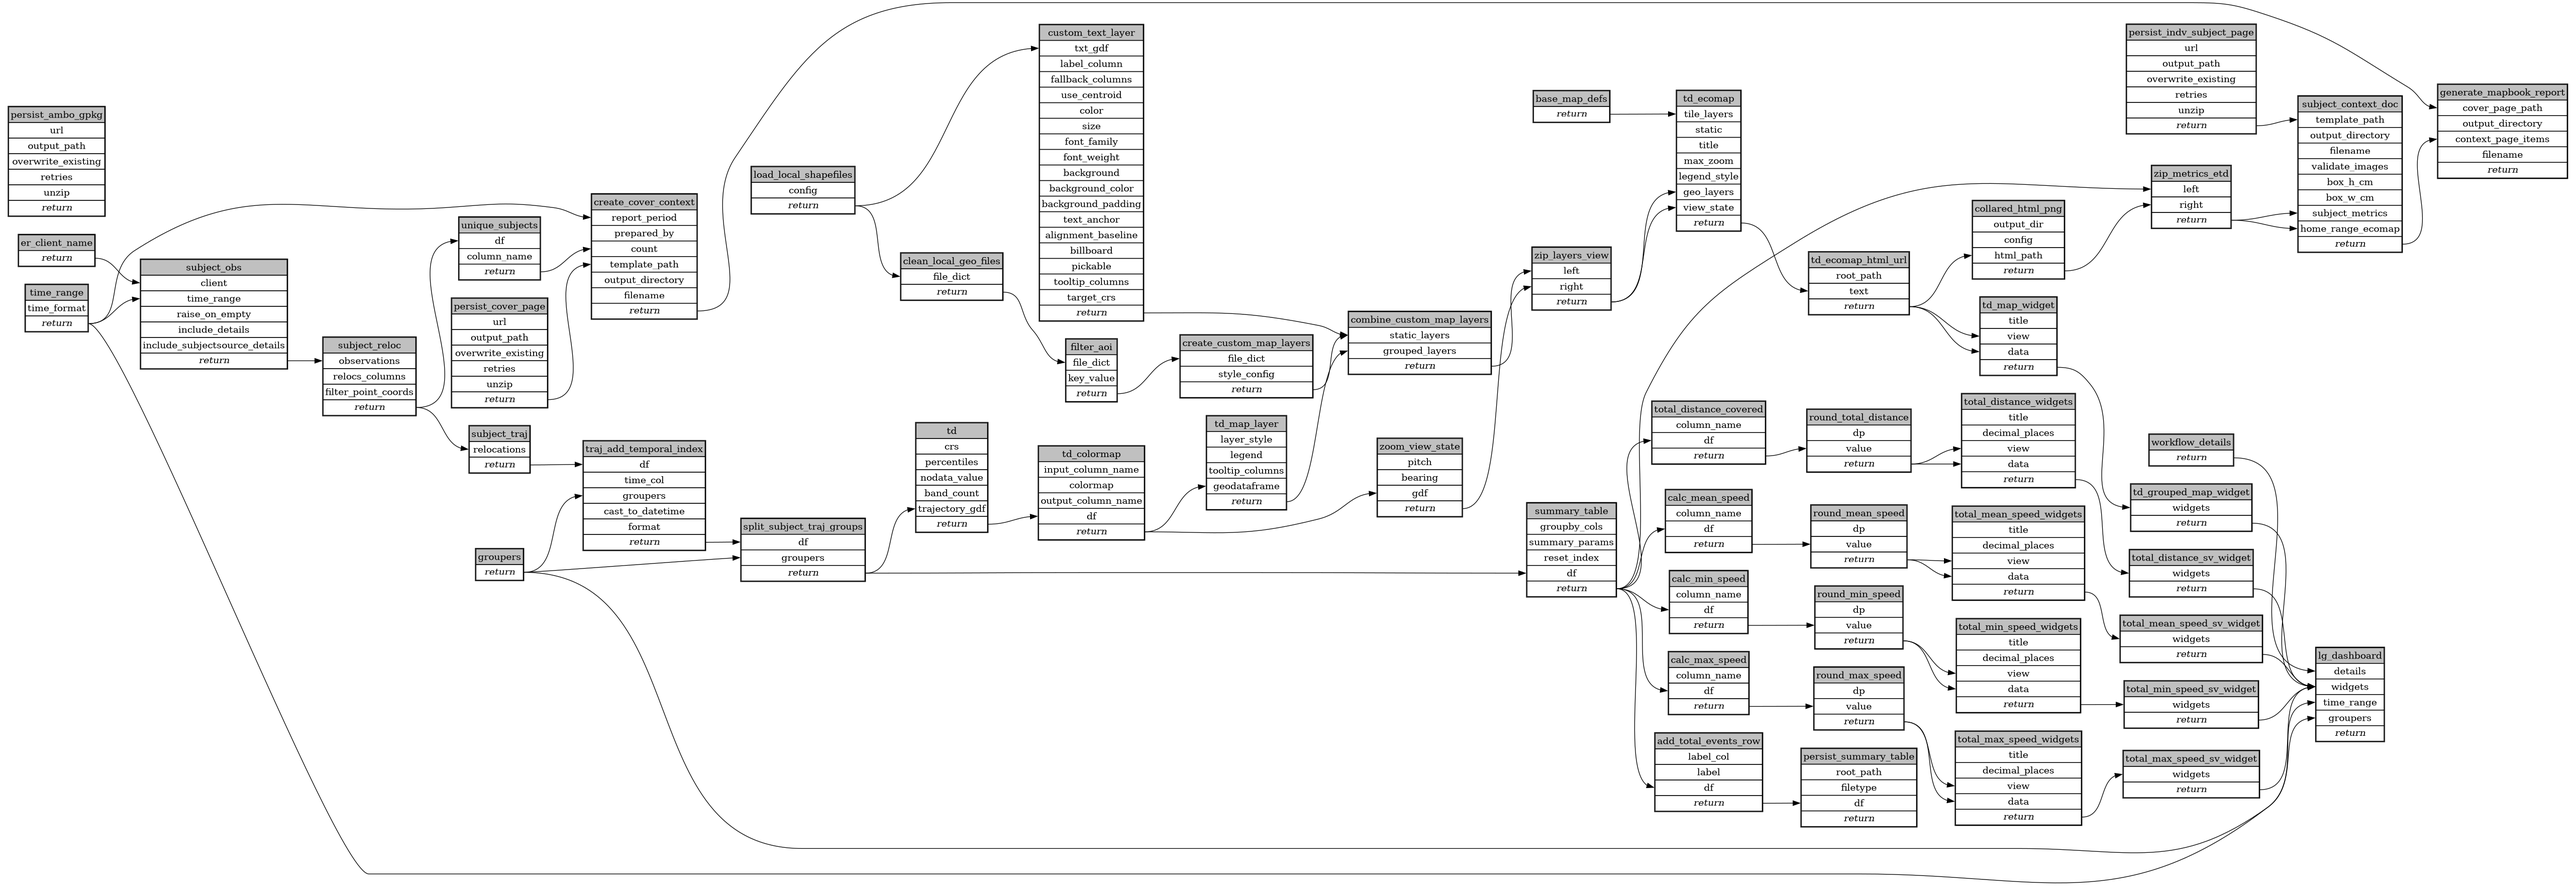
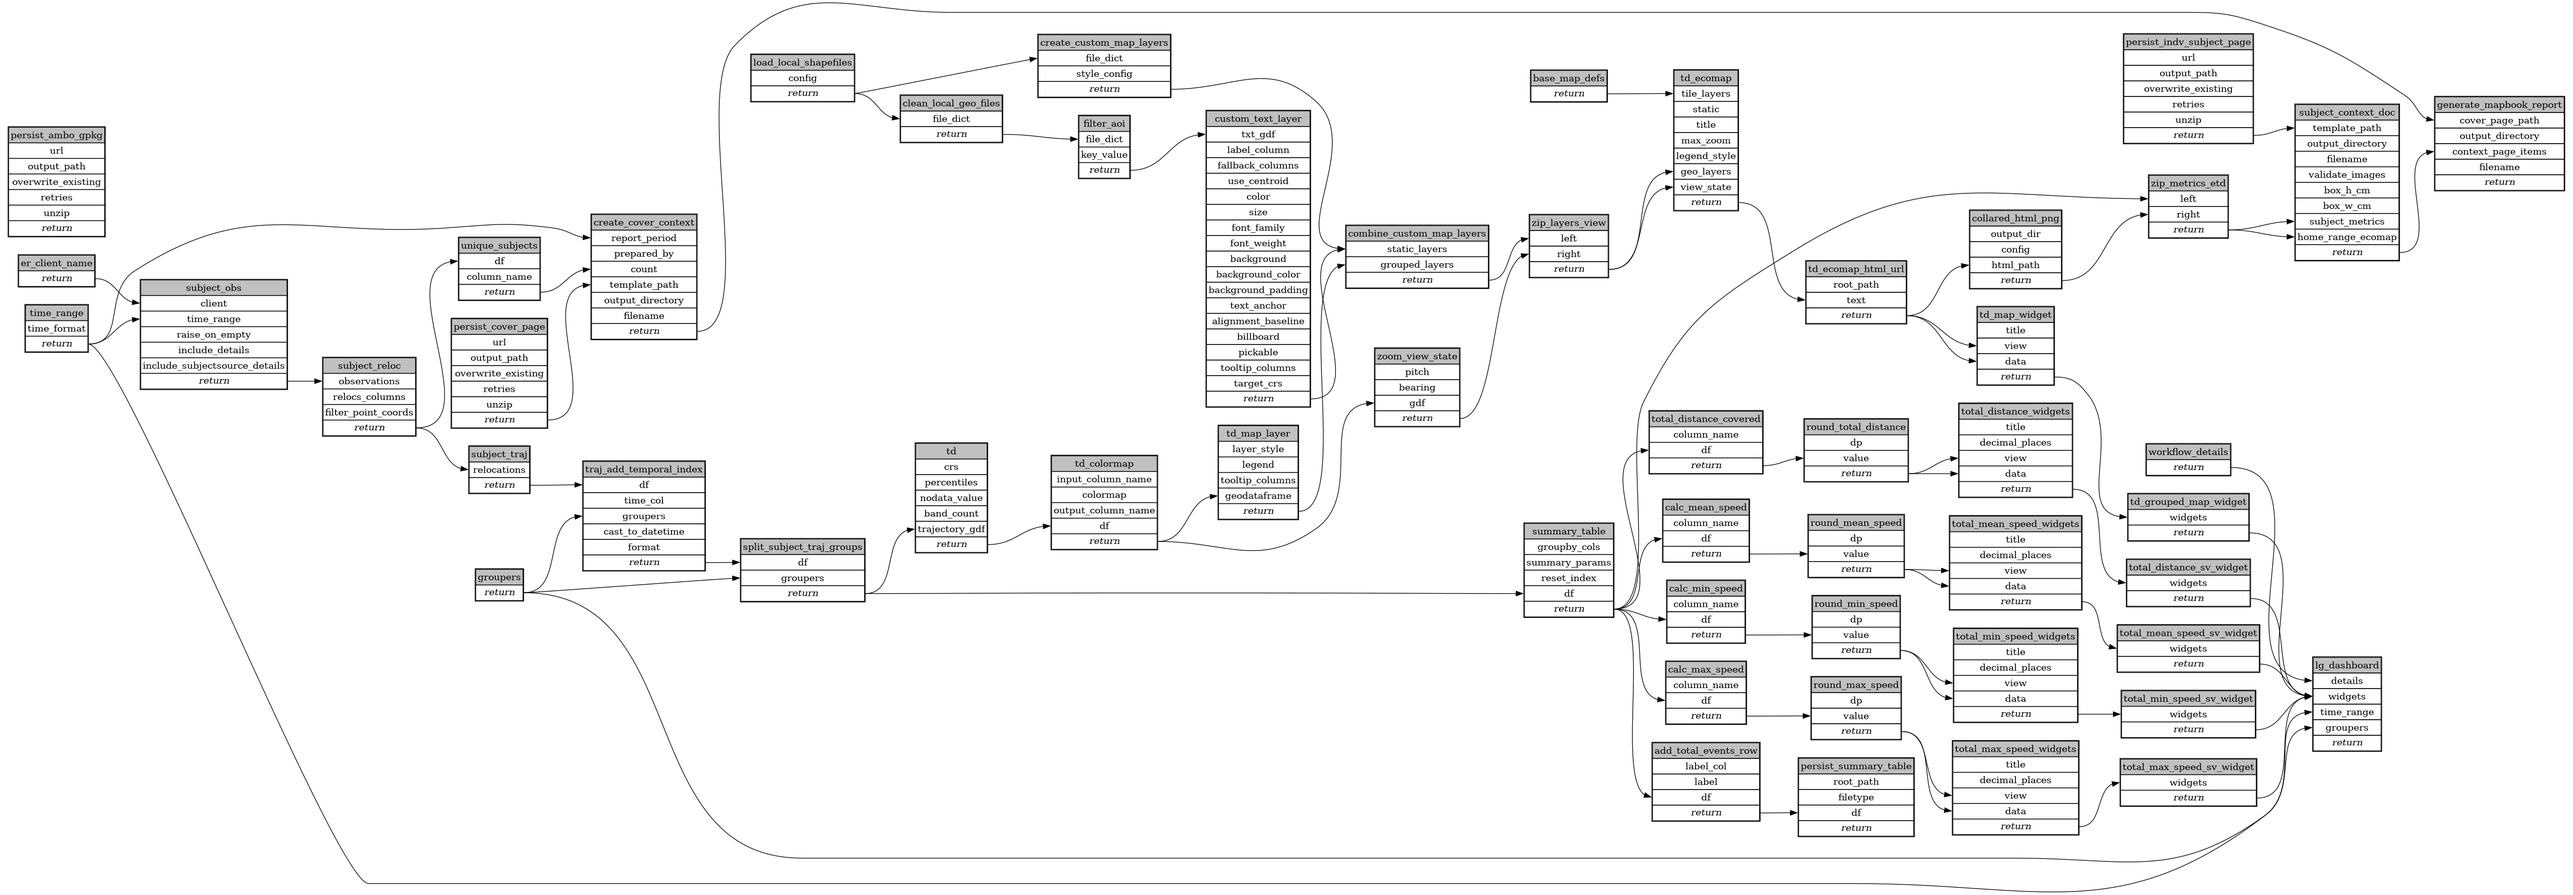
fix key area of interest task func block

Changed region(s): [[0.0, 0.0, 0.6871, 0.6859], [0.5934, 0.0, 0.9994, 0.9666]]

diff --git a/workflows/collared_lions_report/ecoscope-workflows-collared-lions-report-workflow/ecoscope_workflows_collared_lions_report_workflow/dags/run_async.py b/workflows/collared_lions_report/ecoscope-workflows-collared-lions-report-workflow/ecoscope_workflows_collared_lions_report_workflow/dags/run_async.py
@@ -74,9 +74,9 @@ def main(params: Params):
         "persist_indv_subject_page": [],
         "load_local_shapefiles": [],
         "clean_local_geo_files": ["load_local_shapefiles"],
+        "create_custom_map_layers": ["load_local_shapefiles"],
         "filter_aoi": ["clean_local_geo_files"],
-        "create_custom_map_layers": ["filter_aoi"],
-        "custom_text_layer": ["load_local_shapefiles"],
+        "custom_text_layer": ["filter_aoi"],
         "subject_obs": ["er_client_name", "time_range"],
         "subject_reloc": ["subject_obs"],
         "subject_traj": ["subject_reloc"],
@@ -256,19 +256,6 @@ def main(params: Params):
             | (params_dict.get("clean_local_geo_files") or {}),
             method="call",
         ),
-        "filter_aoi": Node(
-            async_task=select_koi.validate()
-            .set_task_instance_id("filter_aoi")
-            .handle_errors()
-            .with_tracing()
-            .set_executor("lithops"),
-            partial={
-                "file_dict": DependsOn("clean_local_geo_files"),
-                "key_value": "amboseli_group_ranch_boundaries",
-            }
-            | (params_dict.get("filter_aoi") or {}),
-            method="call",
-        ),
         "create_custom_map_layers": Node(
             async_task=create_map_layers.validate()
             .set_task_instance_id("create_custom_map_layers")
@@ -276,7 +263,7 @@ def main(params: Params):
             .with_tracing()
             .set_executor("lithops"),
             partial={
-                "file_dict": DependsOn("filter_aoi"),
+                "file_dict": DependsOn("load_local_shapefiles"),
                 "style_config": {
                     "styles": {
                         "amboseli_group_ranch_boundaries": {
@@ -297,6 +284,19 @@ def main(params: Params):
             | (params_dict.get("create_custom_map_layers") or {}),
             method="call",
         ),
+        "filter_aoi": Node(
+            async_task=select_koi.validate()
+            .set_task_instance_id("filter_aoi")
+            .handle_errors()
+            .with_tracing()
+            .set_executor("lithops"),
+            partial={
+                "file_dict": DependsOn("clean_local_geo_files"),
+                "key_value": "amboseli_group_ranch_boundaries",
+            }
+            | (params_dict.get("filter_aoi") or {}),
+            method="call",
+        ),
         "custom_text_layer": Node(
             async_task=make_text_layer.validate()
             .set_task_instance_id("custom_text_layer")
@@ -304,7 +304,7 @@ def main(params: Params):
             .with_tracing()
             .set_executor("lithops"),
             partial={
-                "txt_gdf": DependsOn("load_local_shapefiles"),
+                "txt_gdf": DependsOn("filter_aoi"),
                 "label_column": "R_NAME",
                 "fallback_columns": None,
                 "use_centroid": True,

diff --git a/workflows/collared_lions_report/ecoscope-workflows-collared-lions-report-workflow/ecoscope_workflows_collared_lions_report_workflow/dags/run_async_mock_io.py b/workflows/collared_lions_report/ecoscope-workflows-collared-lions-report-workflow/ecoscope_workflows_collared_lions_report_workflow/dags/run_async_mock_io.py
@@ -92,9 +92,9 @@ def main(params: Params):
         "persist_indv_subject_page": [],
         "load_local_shapefiles": [],
         "clean_local_geo_files": ["load_local_shapefiles"],
+        "create_custom_map_layers": ["load_local_shapefiles"],
         "filter_aoi": ["clean_local_geo_files"],
-        "create_custom_map_layers": ["filter_aoi"],
-        "custom_text_layer": ["load_local_shapefiles"],
+        "custom_text_layer": ["filter_aoi"],
         "subject_obs": ["er_client_name", "time_range"],
         "subject_reloc": ["subject_obs"],
         "subject_traj": ["subject_reloc"],
@@ -274,19 +274,6 @@ def main(params: Params):
             | (params_dict.get("clean_local_geo_files") or {}),
             method="call",
         ),
-        "filter_aoi": Node(
-            async_task=select_koi.validate()
-            .set_task_instance_id("filter_aoi")
-            .handle_errors()
-            .with_tracing()
-            .set_executor("lithops"),
-            partial={
-                "file_dict": DependsOn("clean_local_geo_files"),
-                "key_value": "amboseli_group_ranch_boundaries",
-            }
-            | (params_dict.get("filter_aoi") or {}),
-            method="call",
-        ),
         "create_custom_map_layers": Node(
             async_task=create_map_layers.validate()
             .set_task_instance_id("create_custom_map_layers")
@@ -294,7 +281,7 @@ def main(params: Params):
             .with_tracing()
             .set_executor("lithops"),
             partial={
-                "file_dict": DependsOn("filter_aoi"),
+                "file_dict": DependsOn("load_local_shapefiles"),
                 "style_config": {
                     "styles": {
                         "amboseli_group_ranch_boundaries": {
@@ -315,6 +302,19 @@ def main(params: Params):
             | (params_dict.get("create_custom_map_layers") or {}),
             method="call",
         ),
+        "filter_aoi": Node(
+            async_task=select_koi.validate()
+            .set_task_instance_id("filter_aoi")
+            .handle_errors()
+            .with_tracing()
+            .set_executor("lithops"),
+            partial={
+                "file_dict": DependsOn("clean_local_geo_files"),
+                "key_value": "amboseli_group_ranch_boundaries",
+            }
+            | (params_dict.get("filter_aoi") or {}),
+            method="call",
+        ),
         "custom_text_layer": Node(
             async_task=make_text_layer.validate()
             .set_task_instance_id("custom_text_layer")
@@ -322,7 +322,7 @@ def main(params: Params):
             .with_tracing()
             .set_executor("lithops"),
             partial={
-                "txt_gdf": DependsOn("load_local_shapefiles"),
+                "txt_gdf": DependsOn("filter_aoi"),
                 "label_column": "R_NAME",
                 "fallback_columns": None,
                 "use_centroid": True,

diff --git a/workflows/collared_lions_report/ecoscope-workflows-collared-lions-report-workflow/ecoscope_workflows_collared_lions_report_workflow/dags/jupytext.py b/workflows/collared_lions_report/ecoscope-workflows-collared-lions-report-workflow/ecoscope_workflows_collared_lions_report_workflow/dags/jupytext.py
@@ -315,6 +315,43 @@ clean_local_geo_files = (
 
 
 # %% [markdown]
+# ## Create Map Layers
+
+# %%
+# parameters
+
+create_custom_map_layers_params = dict()
+
+# %%
+# call the task
+
+
+create_custom_map_layers = (
+    create_map_layers.set_task_instance_id("create_custom_map_layers")
+    .handle_errors()
+    .with_tracing()
+    .partial(
+        file_dict=load_local_shapefiles,
+        style_config={
+            "styles": {
+                "amboseli_group_ranch_boundaries": {
+                    "stroked": True,
+                    "filled": False,
+                    "get_elevation": 50,
+                    "opacity": 0.55,
+                    "get_line_color": [105, 105, 105, 200],
+                    "get_line_width": 3.5,
+                }
+            },
+            "legend": {"label": ["Group ranch boundaries"], "color": ["#696969"]},
+        },
+        **create_custom_map_layers_params,
+    )
+    .call()
+)
+
+
+# %% [markdown]
 # ## Select Key of Interest to annotate text layers on the map
 
 # %%
@@ -340,43 +377,6 @@ filter_aoi = (
 
 
 # %% [markdown]
-# ## Create Map Layers
-
-# %%
-# parameters
-
-create_custom_map_layers_params = dict()
-
-# %%
-# call the task
-
-
-create_custom_map_layers = (
-    create_map_layers.set_task_instance_id("create_custom_map_layers")
-    .handle_errors()
-    .with_tracing()
-    .partial(
-        file_dict=filter_aoi,
-        style_config={
-            "styles": {
-                "amboseli_group_ranch_boundaries": {
-                    "stroked": True,
-                    "filled": False,
-                    "get_elevation": 50,
-                    "opacity": 0.55,
-                    "get_line_color": [105, 105, 105, 200],
-                    "get_line_width": 3.5,
-                }
-            },
-            "legend": {"label": ["Group ranch boundaries"], "color": ["#696969"]},
-        },
-        **create_custom_map_layers_params,
-    )
-    .call()
-)
-
-
-# %% [markdown]
 # ## Create text layer
 
 # %%
@@ -393,7 +393,7 @@ custom_text_layer = (
     .handle_errors()
     .with_tracing()
     .partial(
-        txt_gdf=load_local_shapefiles,
+        txt_gdf=filter_aoi,
         label_column="R_NAME",
         fallback_columns=None,
         use_centroid=True,

diff --git a/workflows/collared_lions_report/ecoscope-workflows-collared-lions-report-workflow/ecoscope_workflows_collared_lions_report_workflow/dags/run_sequential.py b/workflows/collared_lions_report/ecoscope-workflows-collared-lions-report-workflow/ecoscope_workflows_collared_lions_report_workflow/dags/run_sequential.py
@@ -181,26 +181,13 @@ def main(params: Params):
         .call()
     )
 
-    filter_aoi = (
-        select_koi.validate()
-        .set_task_instance_id("filter_aoi")
-        .handle_errors()
-        .with_tracing()
-        .partial(
-            file_dict=clean_local_geo_files,
-            key_value="amboseli_group_ranch_boundaries",
-            **(params_dict.get("filter_aoi") or {}),
-        )
-        .call()
-    )
-
     create_custom_map_layers = (
         create_map_layers.validate()
         .set_task_instance_id("create_custom_map_layers")
         .handle_errors()
         .with_tracing()
         .partial(
-            file_dict=filter_aoi,
+            file_dict=load_local_shapefiles,
             style_config={
                 "styles": {
                     "amboseli_group_ranch_boundaries": {
@@ -219,13 +206,26 @@ def main(params: Params):
         .call()
     )
 
+    filter_aoi = (
+        select_koi.validate()
+        .set_task_instance_id("filter_aoi")
+        .handle_errors()
+        .with_tracing()
+        .partial(
+            file_dict=clean_local_geo_files,
+            key_value="amboseli_group_ranch_boundaries",
+            **(params_dict.get("filter_aoi") or {}),
+        )
+        .call()
+    )
+
     custom_text_layer = (
         make_text_layer.validate()
         .set_task_instance_id("custom_text_layer")
         .handle_errors()
         .with_tracing()
         .partial(
-            txt_gdf=load_local_shapefiles,
+            txt_gdf=filter_aoi,
             label_column="R_NAME",
             fallback_columns=None,
             use_centroid=True,

diff --git a/workflows/collared_lions_report/ecoscope-workflows-collared-lions-report-workflow/ecoscope_workflows_collared_lions_report_workflow/dags/run_sequential_mock_io.py b/workflows/collared_lions_report/ecoscope-workflows-collared-lions-report-workflow/ecoscope_workflows_collared_lions_report_workflow/dags/run_sequential_mock_io.py
@@ -199,26 +199,13 @@ def main(params: Params):
         .call()
     )
 
-    filter_aoi = (
-        select_koi.validate()
-        .set_task_instance_id("filter_aoi")
-        .handle_errors()
-        .with_tracing()
-        .partial(
-            file_dict=clean_local_geo_files,
-            key_value="amboseli_group_ranch_boundaries",
-            **(params_dict.get("filter_aoi") or {}),
-        )
-        .call()
-    )
-
     create_custom_map_layers = (
         create_map_layers.validate()
         .set_task_instance_id("create_custom_map_layers")
         .handle_errors()
         .with_tracing()
         .partial(
-            file_dict=filter_aoi,
+            file_dict=load_local_shapefiles,
             style_config={
                 "styles": {
                     "amboseli_group_ranch_boundaries": {
@@ -237,13 +224,26 @@ def main(params: Params):
         .call()
     )
 
+    filter_aoi = (
+        select_koi.validate()
+        .set_task_instance_id("filter_aoi")
+        .handle_errors()
+        .with_tracing()
+        .partial(
+            file_dict=clean_local_geo_files,
+            key_value="amboseli_group_ranch_boundaries",
+            **(params_dict.get("filter_aoi") or {}),
+        )
+        .call()
+    )
+
     custom_text_layer = (
         make_text_layer.validate()
         .set_task_instance_id("custom_text_layer")
         .handle_errors()
         .with_tracing()
         .partial(
-            txt_gdf=load_local_shapefiles,
+            txt_gdf=filter_aoi,
             label_column="R_NAME",
             fallback_columns=None,
             use_centroid=True,

diff --git a/workflows/collared_lions_report/ecoscope-workflows-collared-lions-report-workflow/README.md b/workflows/collared_lions_report/ecoscope-workflows-collared-lions-report-workflow/README.md
@@ -5,8 +5,8 @@
 
 ```yaml
 # fingerprint:
-artifacts_sha256_basic: 1ee749f84bede107d1b3b61e0dc6a23d922410b8ac9be4537926e8b1fca857cc
-artifacts_sha256_strict: a234314bfa69fded8ba47c05684dbcf1abfcdc88e90e55ba9200c6031a40c6e1
+artifacts_sha256_basic: 82affe23493401efc9ef468ab381d7c00904182ccaa2396cef0581e54039f17e
+artifacts_sha256_strict: 100a05b8f1afd365c418c3c200fd0471e2f5ca293715a730a05933b8b83ea297
 installed_requirements:
 - channel: https://repo.prefix.dev/ecoscope-workflows/
   name: ecoscope-workflows-core
@@ -19,9 +19,9 @@ installed_requirements:
   version: {version: ==0.0.6}
 - channel: file:///tmp/ecoscope-workflows-custom/release/artifacts/
   name: ecoscope-workflows-ext-lion-guardians
-  version: {version: ==10000.dev46+gb6ef34049.d20251111}
+  version: {version: ==10000.dev47+ge8593971e.d20251111}
 params_sha256: 51f52a72f7e40089d38b1bbd368b228a1e67b2d650651812593e6125fbf22cf0
-spec_sha256: b8e9d83bd06a641763ff9721004dfba506796028746087efa1ccf2fa9f8881de
+spec_sha256: 67bfb0720f65738b96e4c2453b194a09f1bc2f2ca437da453b52ac0527094c2e
 
 ```
 
